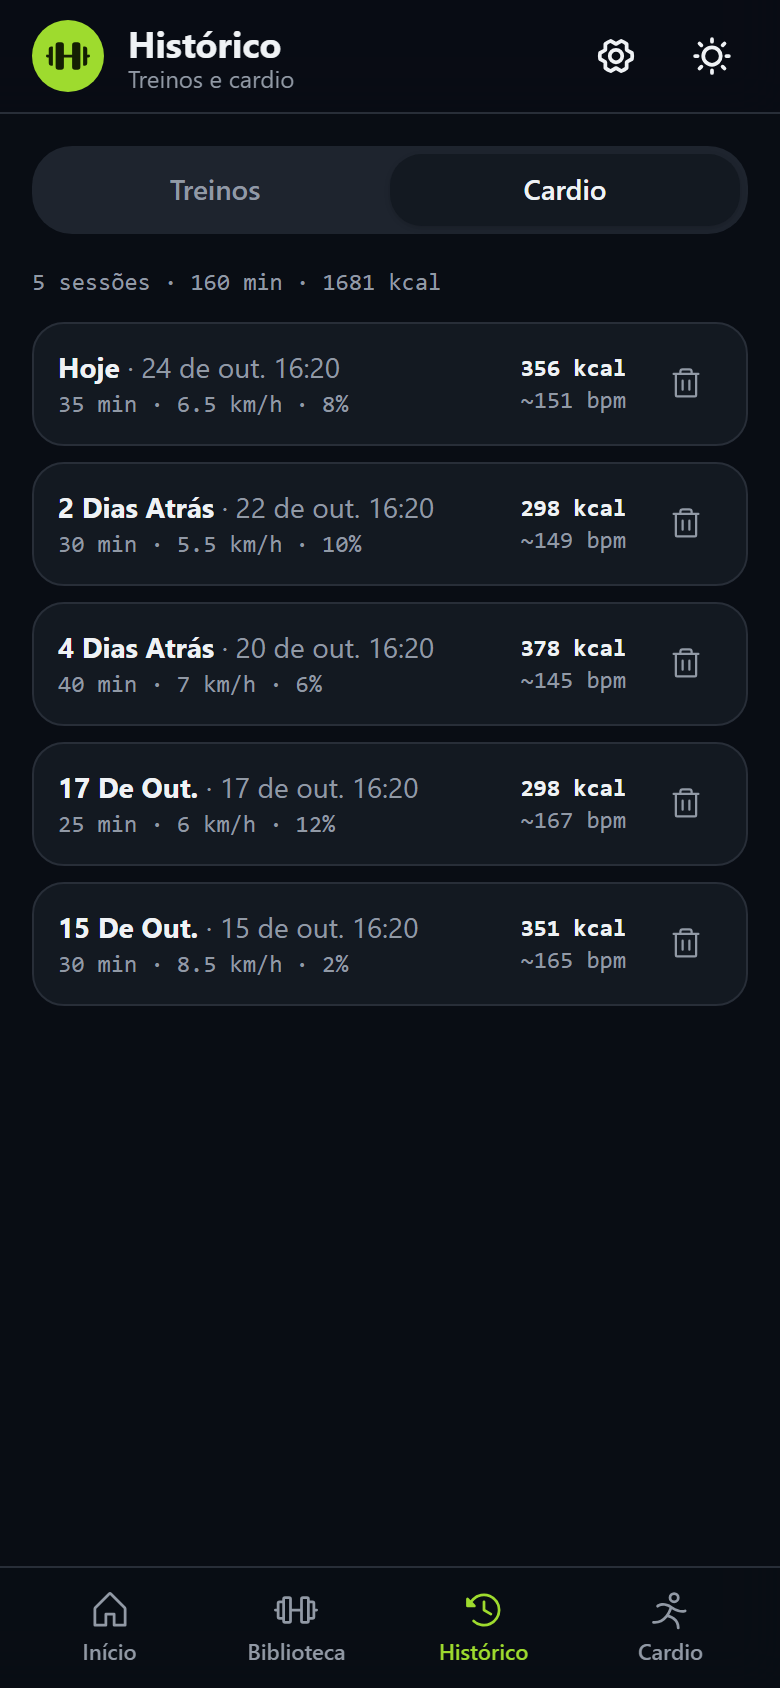
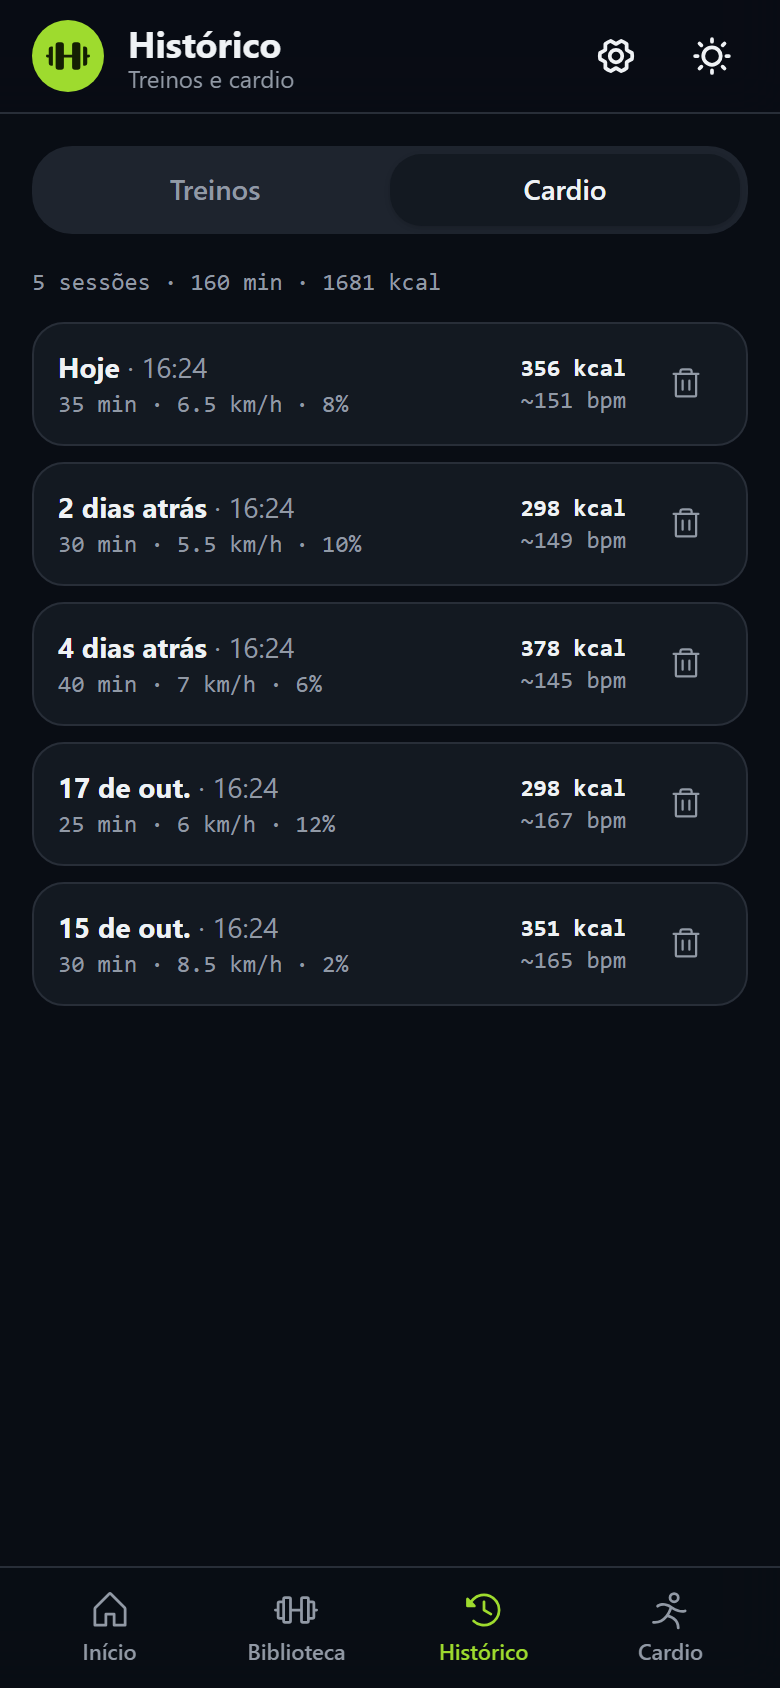
fix: stop capitalizing every word in relative date labels
Drops the capitalize class that turned "4 dias atrás" into "4 Dias Atrás",
simplifies the cardio history date label and refreshes the two history
screenshots.

diff --git a/src/components/CardioHistory.tsx b/src/components/CardioHistory.tsx
@@ -4,7 +4,7 @@ import { Link } from "react-router";
 import { ConfirmDialog } from "./ConfirmDialog";
 import { EmptyState } from "./EmptyState";
 import { paths } from "../lib/paths";
-import { formatDate, formatTime, relativeDay } from "../lib/format";
+import { formatTime, relativeDay } from "../lib/format";
 import { useStore } from "../hooks/useStore";
 
 export function CardioHistory() {
@@ -47,9 +47,9 @@ export function CardioHistory() {
           >
             <span className="min-w-0 flex-1">
               <span className="block text-sm font-bold">
-                <span className="capitalize">{relativeDay(s.createdAt)}</span>{" "}
+                {relativeDay(s.createdAt)}{" "}
                 <span className="font-normal text-muted-foreground">
-                  · {formatDate(s.createdAt)} {formatTime(s.createdAt)}
+                  · {formatTime(s.createdAt)}
                 </span>
               </span>
               <span className="block font-mono text-xs text-muted-foreground">

diff --git a/src/pages/HistoryPage.tsx b/src/pages/HistoryPage.tsx
@@ -92,7 +92,7 @@ function WorkoutHistory() {
               <span className="min-w-0 flex-1">
                 <span className="block truncate font-bold">{s.name}</span>
                 <span className="block text-xs text-muted-foreground">
-                  <span className="capitalize">{relativeDay(s.startedAt)}</span>{" "}
+                  {relativeDay(s.startedAt)}{" "}
                   · {formatTime(s.startedAt)}
                   {s.finishedAt
                     ? ` · ${formatDuration(s.startedAt, s.finishedAt)}`

diff --git a/src/pages/SessionDetail.tsx b/src/pages/SessionDetail.tsx
@@ -50,7 +50,7 @@ export function SessionDetail() {
 
       <p className="mb-4 flex items-center gap-1.5 text-sm text-muted-foreground">
         <ClockCounterClockwiseIcon size={16} weight="bold" />
-        <span className="capitalize">{relativeDay(session.startedAt)}</span> ·{" "}
+        {relativeDay(session.startedAt)} ·{" "}
         {formatTime(session.startedAt)}
       </p>
 
